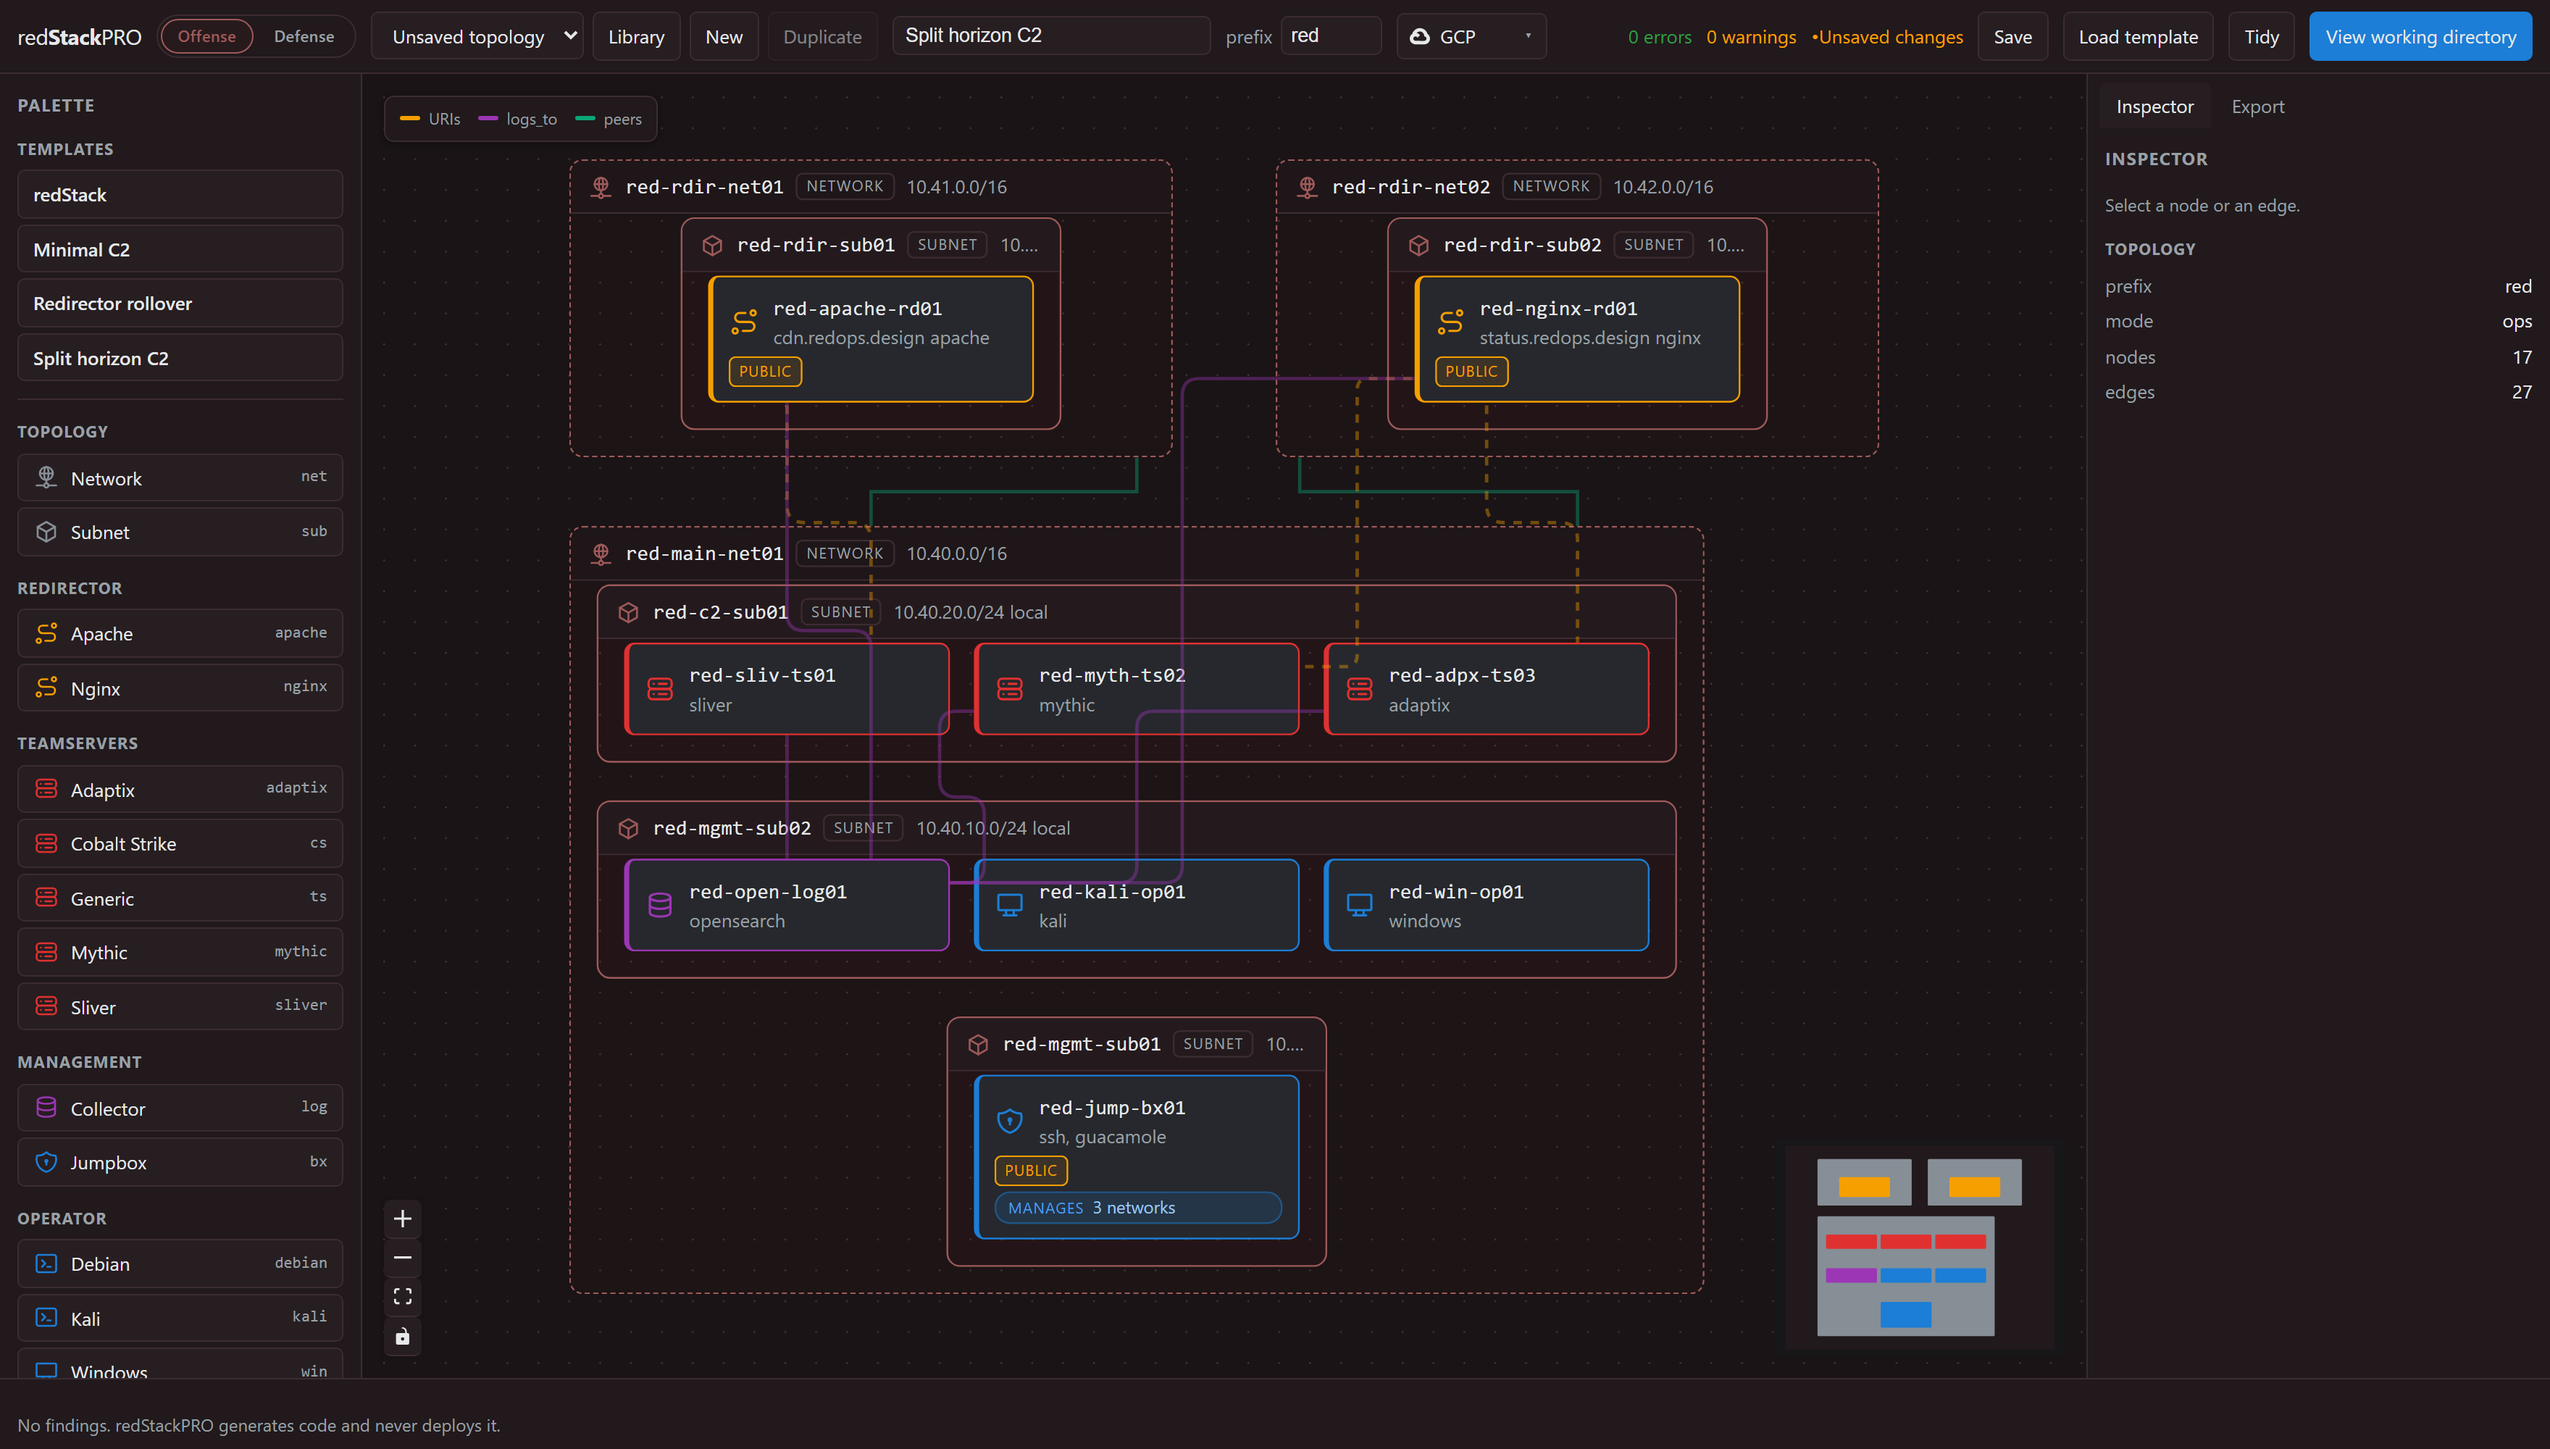
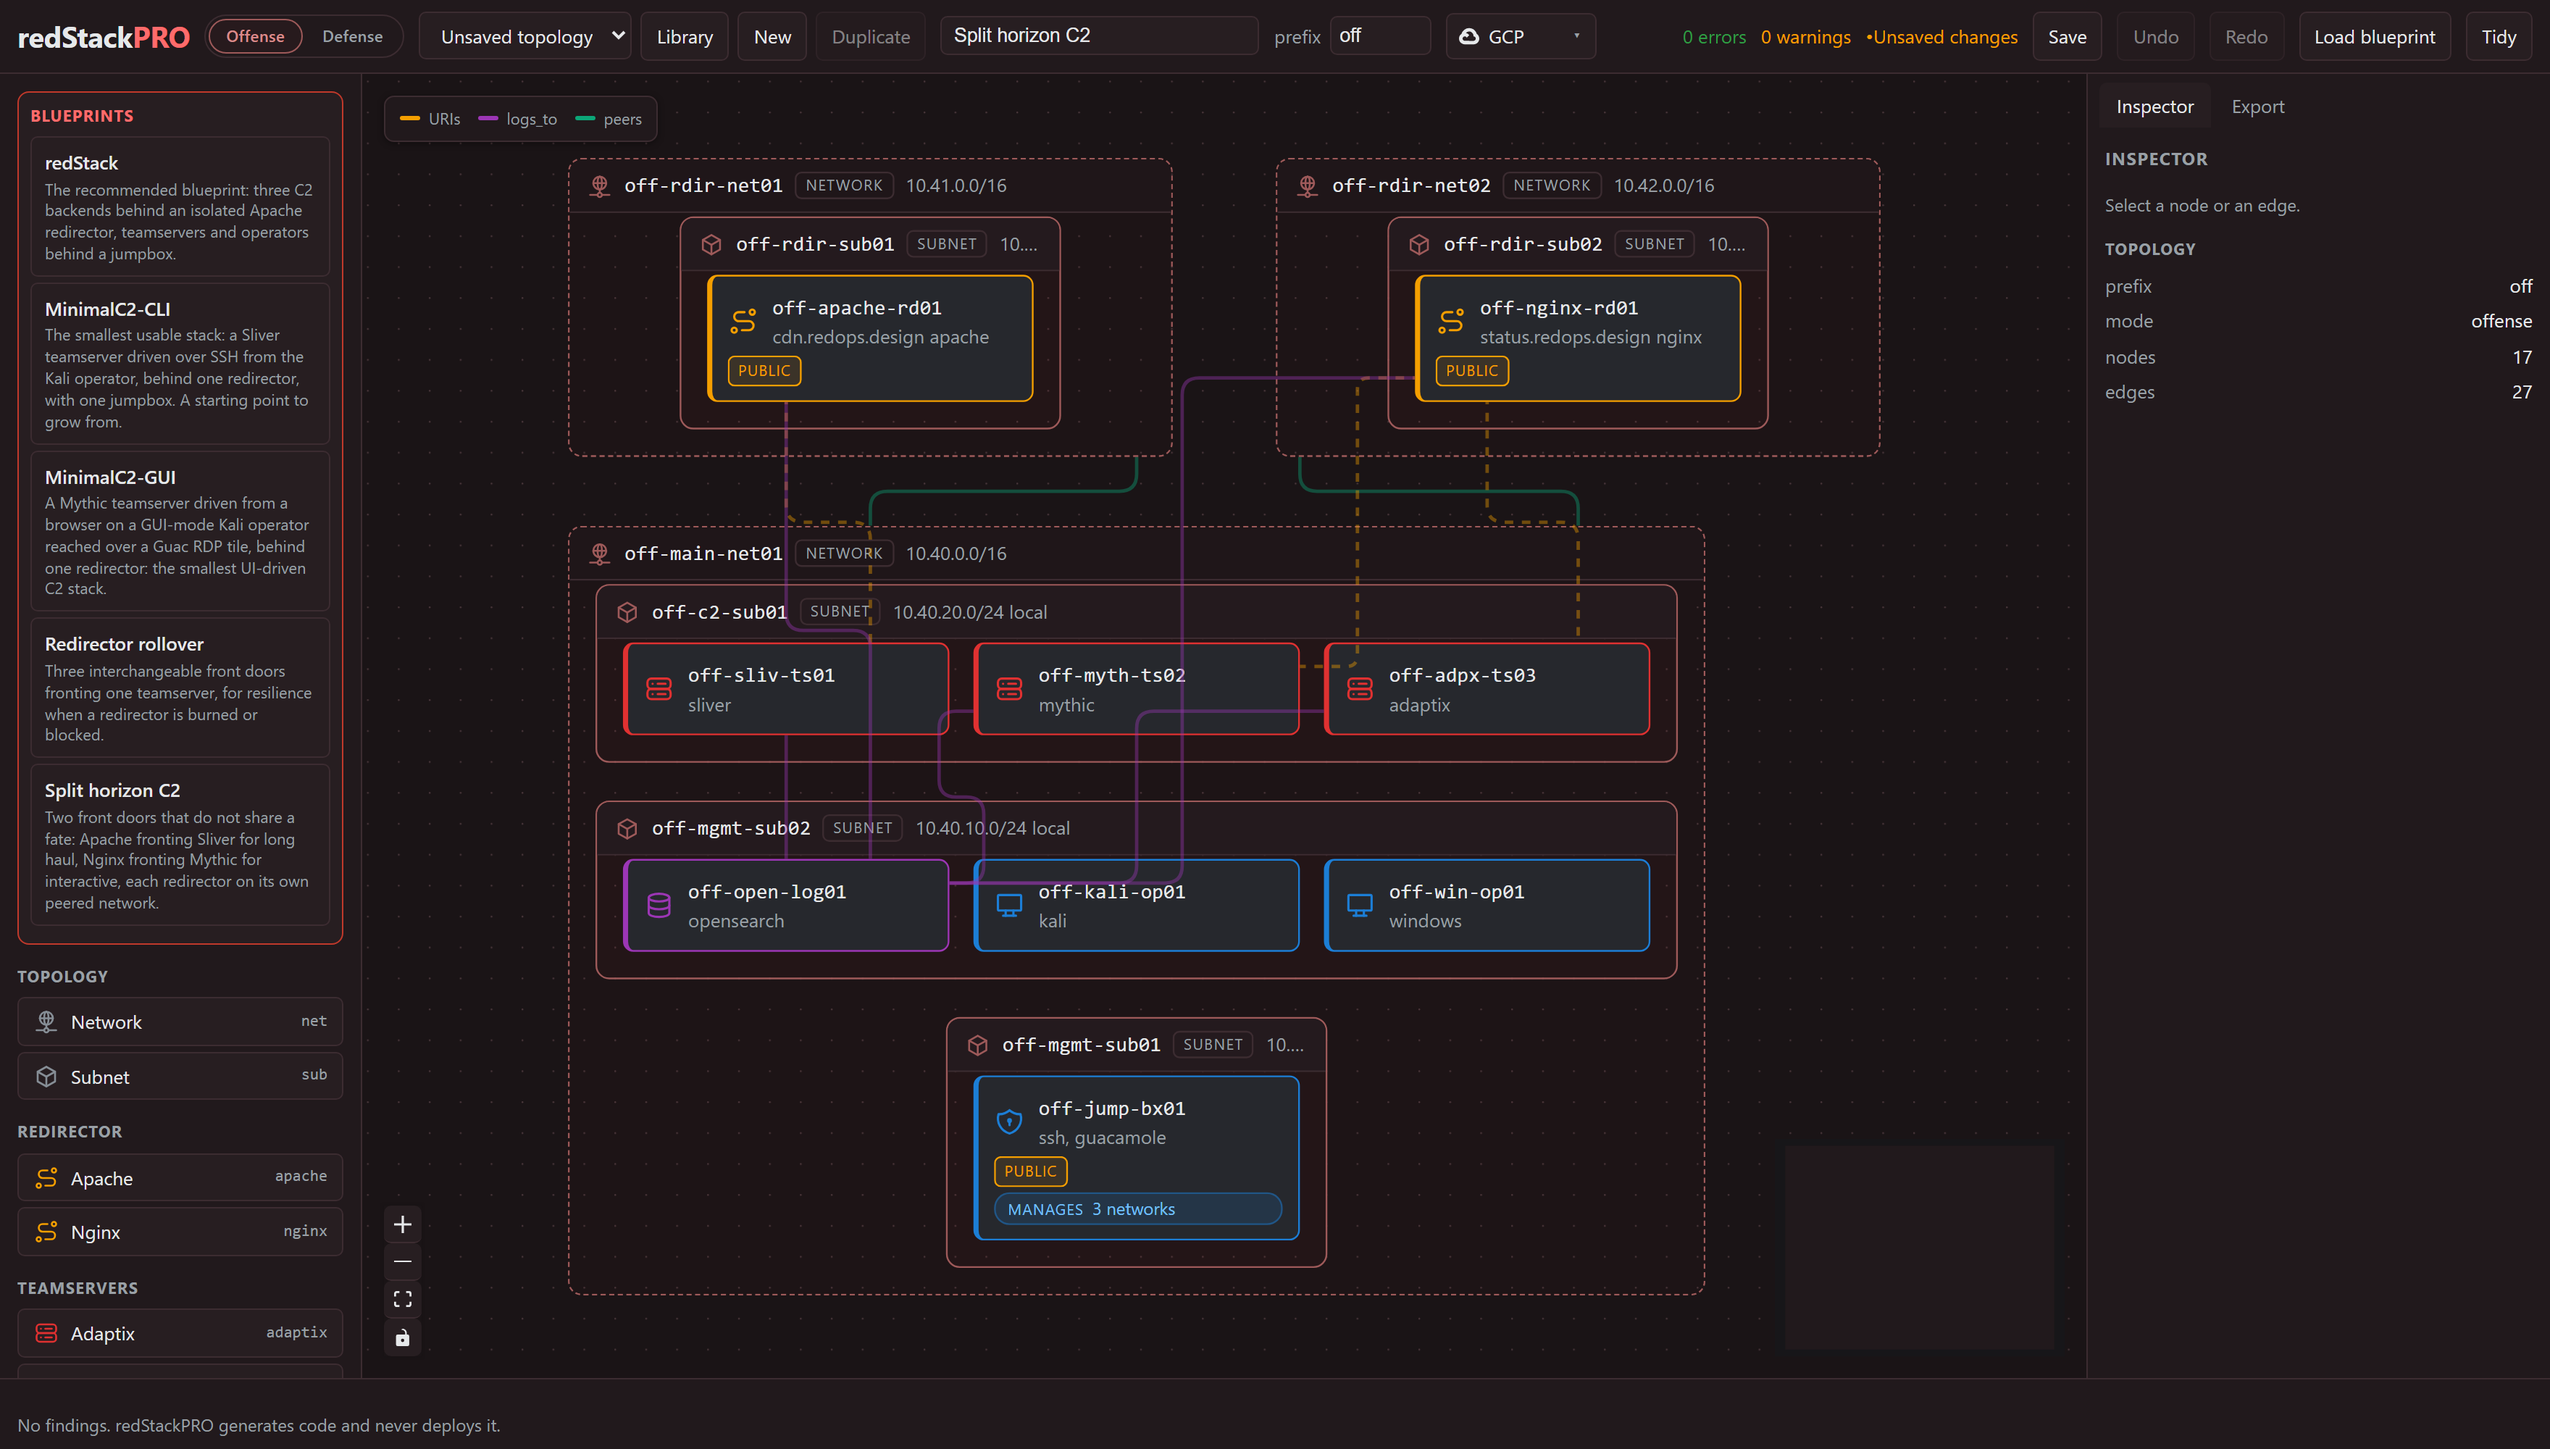
Refresh landing copy and regenerate canvas screenshots

diff --git a/index.html b/index.html
@@ -8,11 +8,11 @@
 <meta property="og:type" content="website">
 <meta property="og:url" content="https://redstackpro.com/">
 <meta property="og:title" content="redStackPRO">
-<meta property="og:description" content="A visual canvas for red team infrastructure and cyber ranges. Compose a topology, export runnable Terraform and Ansible, deploy it from your own machine.">
+<meta property="og:description" content="A visual canvas for red team infrastructure and cyber ranges. Compose a topology, export runnable Terraform and Ansible, and deploy it from your own machine.">
 <meta property="og:image" content="https://redstackpro.com/banner-social.png">
 <meta name="twitter:card" content="summary_large_image">
 <meta name="twitter:title" content="redStackPRO">
-<meta name="twitter:description" content="A visual canvas for red team infrastructure and cyber ranges.">
+<meta name="twitter:description" content="A visual canvas for red team infrastructure and cyber ranges. Compose a topology, export runnable Terraform and Ansible, and deploy it from your own machine.">
 <meta name="twitter:image" content="https://redstackpro.com/banner-social.png">
 <link rel="preconnect" href="https://fonts.googleapis.com">
 <link rel="preconnect" href="https://fonts.gstatic.com" crossorigin>
@@ -176,9 +176,6 @@
   .statement .wrap{padding-block:56px}
   .statement p{font-size:clamp(20px,3vw,27px);font-weight:600;letter-spacing:-.01em;line-height:1.4;max-width:24ch;margin:0;text-wrap:balance}
   .statement span{color:var(--mute)}
-  .statement .note{font-family:var(--sans);font-size:15px;font-weight:400;color:var(--mute);margin-top:22px;max-width:56ch;line-height:1.6}
-  .statement .note a{color:var(--neutral);text-decoration:underline;text-underline-offset:3px}
-  .statement .note a:hover{color:var(--ink)}
 
   /* --- footer --- */
   footer{padding-block:48px}
@@ -205,8 +202,8 @@
     <nav class="nav-links">
       <a href="#canvas">Canvas</a>
       <a href="#how">How it works</a>
-      <a href="https://github.com/devZero-Security/redstackpro/wiki">Wiki</a>
-      <a class="nav-cta" href="https://github.com/devZero-Security/redstackpro">GitHub</a>
+      <a href="https://github.com/devZero-Security/redStackPRO/wiki">Docs</a>
+      <a class="nav-cta" href="https://github.com/devZero-Security/redStackPRO">GitHub</a>
     </nav>
   </div>
 </header>
@@ -221,21 +218,21 @@
       <span class="eyebrow">Validation range for red team operations</span>
       <h1>Red team infrastructure, composed on a canvas.</h1>
       <p class="lede">
-        redStackPRO is a visual canvas for professionals building production-grade
-        red team infrastructure and cyber ranges. Build a topology on the canvas, then
-        export a complete, runnable working directory of Terraform and Ansible. You run
-        it from your own machine. <b>redStackPRO never holds your cloud credentials.</b>
+        redStackPRO is a visual canvas for red team infrastructure and cyber ranges.
+        Compose a topology, then export a complete, runnable working
+        directory of Terraform and Ansible. You run it from your own machine.
+        <b>redStackPRO never holds your cloud credentials.</b>
       </p>
       <div class="cta-row">
-        <a class="btn btn-primary" href="https://github.com/devZero-Security/redstackpro">
+        <a class="btn btn-primary" href="https://github.com/devZero-Security/redStackPRO">
           <svg viewBox="0 0 16 16" fill="currentColor" aria-hidden="true"><path d="M8 0C3.58 0 0 3.58 0 8c0 3.54 2.29 6.53 5.47 7.59.4.07.55-.17.55-.38 0-.19-.01-.82-.01-1.49-2.01.37-2.53-.49-2.69-.94-.09-.23-.48-.94-.82-1.13-.28-.15-.68-.52-.01-.53.63-.01 1.08.58 1.23.82.72 1.21 1.87.87 2.33.66.07-.52.28-.87.51-1.07-1.78-.2-3.64-.89-3.64-3.95 0-.87.31-1.59.82-2.15-.08-.2-.36-1.02.08-2.12 0 0 .67-.21 2.2.82.64-.18 1.32-.27 2-.27.68 0 1.36.09 2 .27 1.53-1.04 2.2-.82 2.2-.82.44 1.1.16 1.92.08 2.12.51.56.82 1.27.82 2.15 0 3.07-1.87 3.75-3.65 3.95.29.25.54.73.54 1.48 0 1.07-.01 1.93-.01 2.2 0 .21.15.46.55.38A8.01 8.01 0 0016 8c0-4.42-3.58-8-8-8z"/></svg>
           View on GitHub
         </a>
-        <a class="btn btn-ghost" href="https://github.com/devZero-Security/redstackpro#run-with-docker">Read the quickstart</a>
+        <a class="btn btn-ghost" href="https://github.com/devZero-Security/redStackPRO#-run-with-docker">Read the quickstart</a>
       </div>
       <div class="cmd">
         <span class="dollar">$</span>
-        <code id="cmd">docker run -p 8000:8000 ghcr.io/devzero-security/redstackpro:0.9.0</code>
+        <code id="cmd">docker run -p 8000:8000 -v redstackpro-data:/data ghcr.io/devzero-security/redstackpro:0.9.0</code>
         <button class="copy" id="copy" type="button">Copy</button>
       </div>
     </div>
@@ -269,17 +266,17 @@
 
   <section class="block" id="meanings">
     <div class="wrap">
-      <div class="kicker">One canvas, three meanings</div>
+      <div class="kicker">One canvas, three roles</div>
       <h2>Attack, target, and telemetry on the same canvas.</h2>
       <p class="section-intro">
         Every node is colored by what it does, so a range reads at a glance.
-        The three colors each mean one thing, and they hold that meaning everywhere.
+        Each color means one thing, and it holds that meaning everywhere.
       </p>
       <div class="triad">
         <div class="card off">
           <span class="tag">Offense</span>
           <h3>Attack infrastructure</h3>
-          <p>Redirectors, request gating, and C2 blueprints for Mythic, Sliver, and Havoc. Proven on GCP and AWS.</p>
+          <p>Redirectors, request gating, and C2 blueprints for Mythic, Sliver, and Adaptix. Tested on GCP and AWS.</p>
         </div>
         <div class="card def">
           <span class="tag">Defense</span>
@@ -289,7 +286,7 @@
         <div class="card sen">
           <span class="tag">Sensor</span>
           <h3>Telemetry and detection</h3>
-          <p>Collectors and log pipelines on either side of the house, so an operation leaves evidence you can inspect.</p>
+          <p>Collectors and log pipelines on the offense or defense side, so an operation leaves evidence you can inspect.</p>
         </div>
       </div>
     </div>
@@ -302,7 +299,7 @@
       <p class="section-intro">
         The canvas is a composition layer. It generates the working directory and hands it to you.
         Nothing in that chain reaches your cloud on your behalf.
-        redStackPRO is API-first and agent-operable: an agent can read the schema and drive compose, validate, and compile over the local API and CLI.
+        It also has an API and a command line, so an agent can read the schema and drive the compose, validate, and compile steps.
       </p>
       <div class="steps">
         <div class="step">
@@ -318,7 +315,7 @@
         <div class="step">
           <div class="n">03 / Deploy</div>
           <h3>Run it yourself</h3>
-          <p>Fill in your variables and run <code>deploy.sh</code>. Your credentials stay on your machine throughout.</p>
+          <p>Fill in your variables and run <code>deploy.sh</code>. Your credentials stay on your machine throughout. Every shipped lab has a written walkthrough in the <a href="https://github.com/devZero-Security/redStackPRO/wiki/Labs">wiki</a>.</p>
         </div>
       </div>
     </div>
@@ -326,8 +323,7 @@
 
   <section class="statement">
     <div class="wrap">
-      <p>A range to validate TTPs and tooling before an operation. <span>Not a course to learn them.</span></p>
-      <p class="note">New to the craft? Start with <a href="https://github.com/BaddKharma/redStack">redStack</a>, the open lab for students and learners. redStackPRO is the professional edition, for operators who need production-grade range and C2 infrastructure.</p>
+      <p>A range to validate TTPs and tooling before an operation. <span>Built for rehearsing them, not teaching them from scratch.</span></p>
     </div>
   </section>
 </main>
@@ -337,13 +333,13 @@
     <div class="foot">
       <div class="foot-left">
         <img src="devzero-white.png" alt="devZero Security">
-        <small>A devZero Security Project.</small>
+        <small>A devZero Security offering.</small>
       </div>
       <nav class="foot-links">
-        <a href="https://github.com/devZero-Security/redstackpro">GitHub</a>
-        <a href="https://github.com/devZero-Security/redstackpro/wiki">Wiki</a>
-        <a href="https://github.com/BaddKharma/redStack">redStack (learners)</a>
-        <a href="https://github.com/devZero-Security/redstackpro/blob/main/LICENSE">License</a>
+        <a href="https://github.com/devZero-Security/redStackPRO">GitHub</a>
+        <a href="https://github.com/devZero-Security/redStackPRO/wiki">Docs</a>
+        <a href="https://github.com/devZero-Security/redStackPRO/issues/new/choose">Report an issue</a>
+        <a href="https://github.com/devZero-Security/redStackPRO/blob/main/LICENSE">License</a>
       </nav>
     </div>
     <div class="license">MIT licensed. GOAD range templates are derived from <a href="https://github.com/Orange-Cyberdefense/GOAD">Orange Cyberdefense's GOAD</a> and carry GPLv3.</div>
